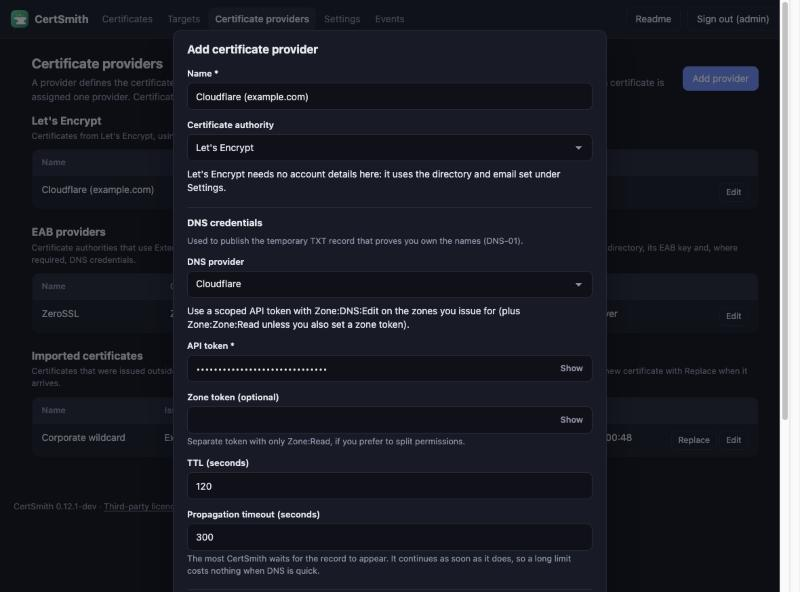
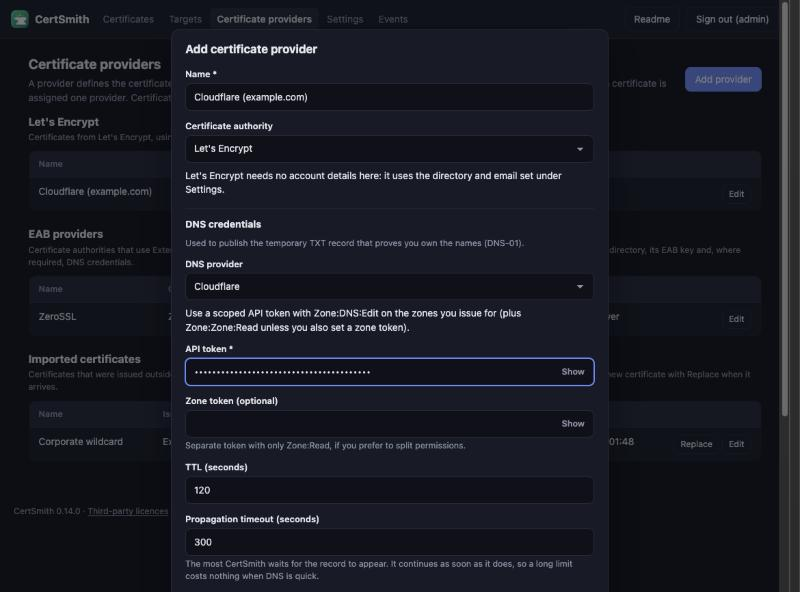
Retake the user-guide screenshots for 0.14; release notes for v0.14.0
All fifteen screenshots show the current interface (target rows, the FortiGate dialog with the ZTNA panel,
the Software card, the version in the footer) on invented example.com data. docs/releases/v0.14.0.md is the
body of the release.

diff --git a/docs/releases/v0.14.0.md b/docs/releases/v0.14.0.md
@@ -1,0 +1,55 @@
+CertSmith 0.14.0 is the first release published from a public repository, under the Apache License 2.0.
+
+## Install or upgrade
+
+```sh
+bash -c "$(wget -nv -O- https://raw.githubusercontent.com/CautiousCapsLock/certsmith/main/get.sh)"
+```
+
+An upgrade keeps your settings and data, and restores the previous version if the new one does not start. The
+archives are attested: `gh attestation verify certsmith-0.14.0-linux-amd64.tar.gz --repo CautiousCapsLock/certsmith`.
+
+## New
+
+- **FortiGate: ZTNA server certificates.** Test connection lists the ZTNA servers the device reports (virtual IPs
+  and the virtual hosts something uses); tick the ones that should receive the certificate. Only the ticked entry
+  is replaced, and the change is rolled back with the rest if a call fails. Certificates are named
+  `<prefix>-<name>-<date>-<serial>`, so the device's certificate list says which is which. SSL VPN is no longer
+  offered on FortiOS 7.6 and later, where it does not exist.
+- **FortiClient EMS** (monitored). EMS has no API for installing a server certificate, so CertSmith watches the
+  console (443) and the FortiClient port (8013) and alerts when either serves a different certificate, an
+  incomplete chain, or one about to expire. It can run with no certificate chosen, as a plain monitor.
+- **Download a certificate and its private key** as a password-protected PKCS#12 file or PEM files, for a device
+  CertSmith cannot deploy to. It asks for your own password and is recorded in the audit log.
+- **Proxmox VE:** the target dialog explains the node name and how to create the API token and give it the one
+  privilege it needs (`Sys.Modify`), with an optional hardening step.
+- **Probes:** an address given as an IP is not listed twice when a name you added resolves to exactly that IP.
+
+## Changed
+
+- Changing only the addresses to verify, or a certificate you chose to trust, no longer makes a deployed target
+  need a manual deployment again.
+- Target rows are laid out in aligned columns, each checked address on its own line with its state at the right,
+  and "Action needed" is no longer drawn as an error. Test connection sits beside the token.
+- A FortiGate that refuses to import the same certificate under a second name is handled: the copy it already has
+  is used.
+- `get.sh` uses `wget` when it is present, and `curl` otherwise.
+
+## Security
+
+- Signing out now ends all of that user's sessions, so a copied session cookie stops working at once.
+- The session cookie is marked Secure when a trusted reverse proxy says the browser used HTTPS.
+- Stricter response headers (Content-Security-Policy `base-uri` and `object-src`, Permissions-Policy and the
+  cross-origin policies).
+- The database file is flushed to disk before it replaces the old one.
+- A webhook target does not follow redirects, refuses to send a private key over plain HTTP, and the local-files
+  target does not write through a link planted in a shared directory. Commands it runs no longer receive the master
+  key in their environment.
+- The systemd unit also hides other processes' `/proc` entries, and the release workflow attests every archive.
+- [SECURITY.md](https://github.com/CautiousCapsLock/certsmith/blob/main/SECURITY.md) now lists the design's known limits.
+
+## Notes
+
+- Signing out ends **all** of that user's sessions, in every browser, not only the one used.
+- ZTNA server certificates have been exercised on FortiOS 8.0 only. The 7.6 object model comes from Fortinet's
+  API specification and automated tests.
